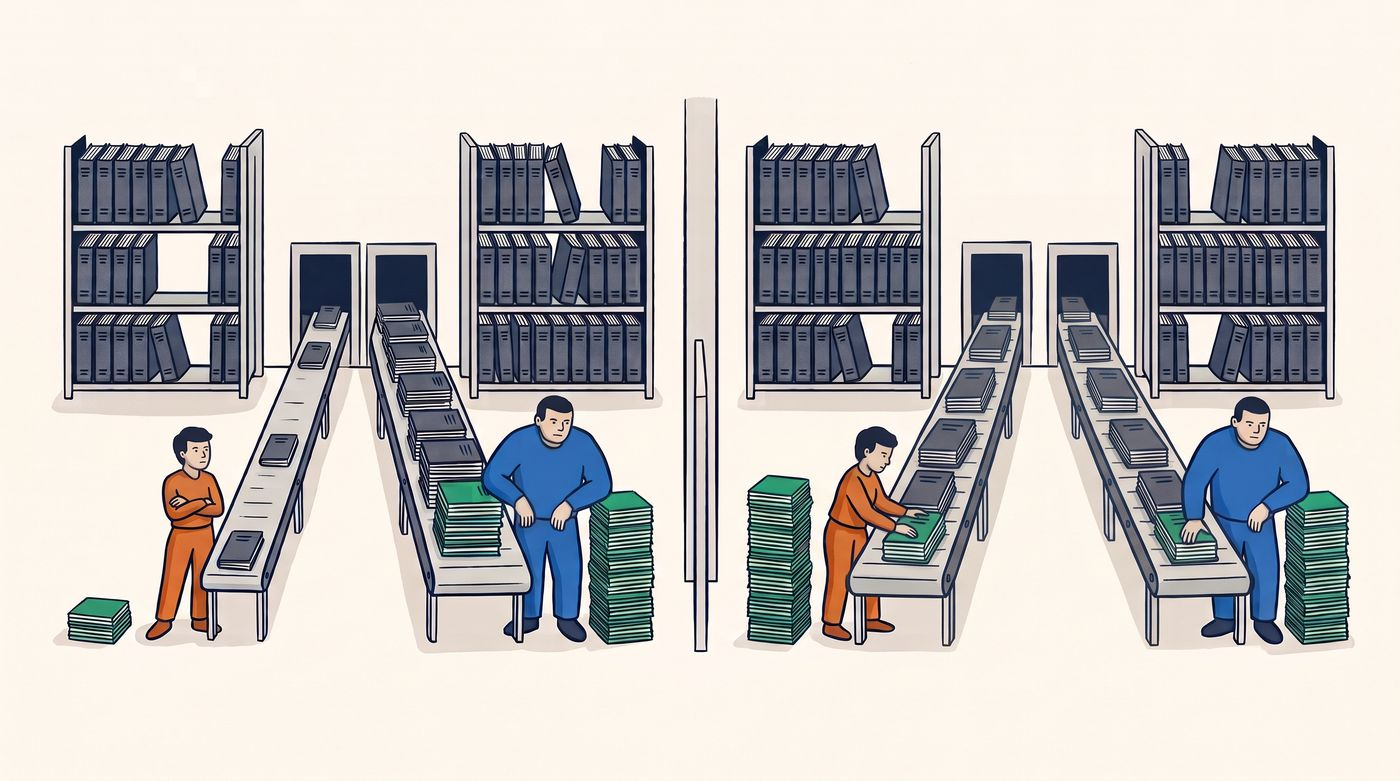
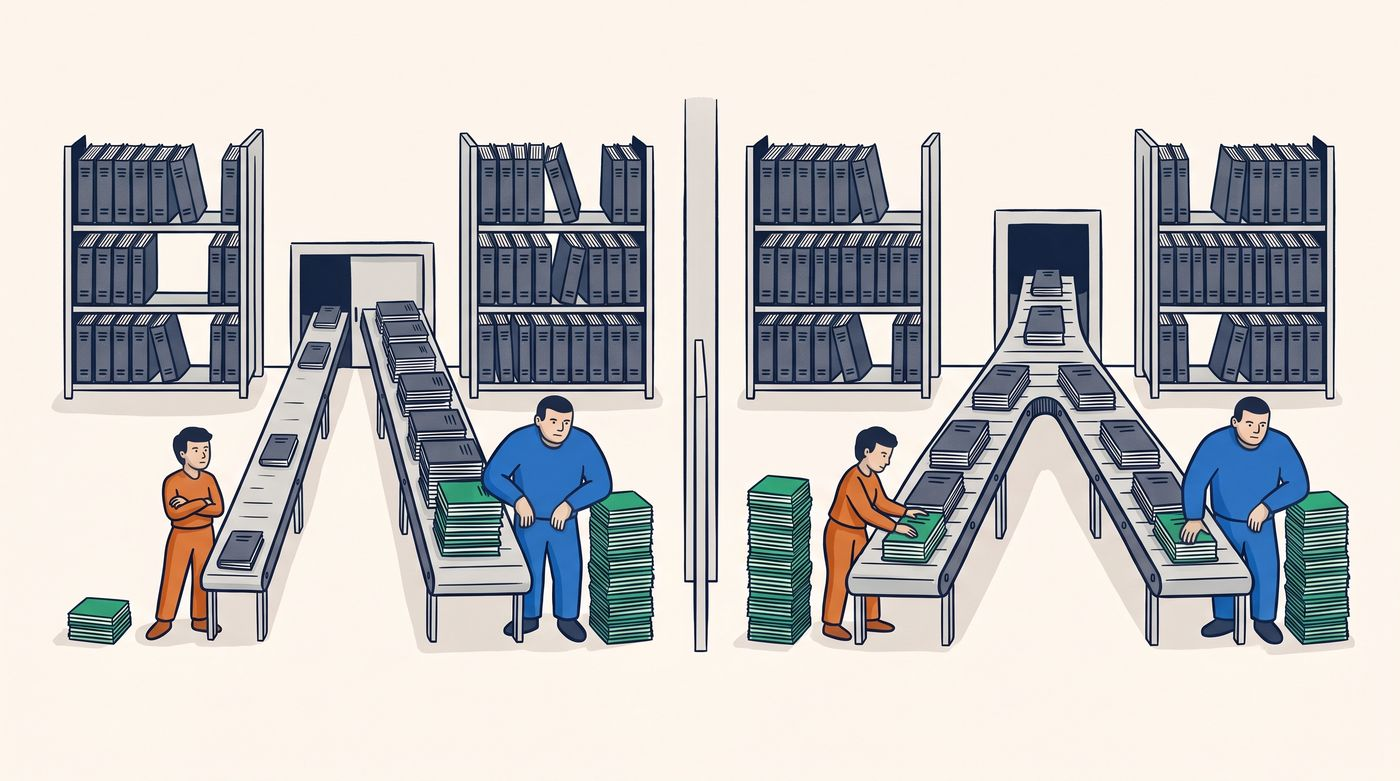
Part 9: diagram with the shared belt forking to both workers

diff --git a/articles/part-9.md b/articles/part-9.md
@@ -59,7 +59,7 @@ weights.
 
 ## Two machines, chosen for their memory
 
-![Two workshops side by side, each with a small worker and a big worker turning ledgers from the shelves into finished pages: on the left the small worker waits with arms folded beside a sparse belt and a short stack while the big worker's crowded belt keeps a tall stack growing; on the right both workers have equally crowded belts and their stacks are about the same height](../assets/diagrams/d11.jpg)
+![Two workshops side by side, each with a small worker and a big worker turning ledgers from the shelves into finished pages: on the left the small worker waits with arms folded beside a sparse belt and a short stack while the big worker's crowded belt keeps a tall stack growing; on the right a single crowded belt forks in two to feed both workers, and their stacks are about the same height](../assets/diagrams/d11.jpg)
 
 The two CPUs were picked to be as far apart as possible on one axis, memory bandwidth,
 and each sits next to a GPU so the CPU-to-GPU gap can be measured on the same box.
